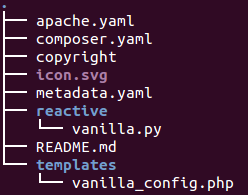
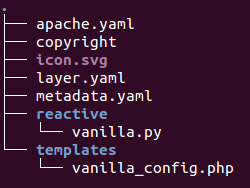
Fixed some typos and replaced the tree image

Changed region(s): [[0.1411, 0.0532, 0.9597, 0.984], [0.0, 0.0266, 0.1129, 0.8511]]

diff --git a/src/en/howto-charm-with-docker.md b/src/en/howto-charm-with-docker.md
@@ -32,7 +32,7 @@ do nothing at all.
 
 The idea of charm layers is to combine objects or data into more complex objects
 or data. When applied to Charms, layers allow you to extend or build off
-other charms to make more complex or useful charms. The `layers.yaml` file in
+other charms to make more complex or useful charms. The `layer.yaml` file in
 the root directory of the charm controls what layer(s) will be imported.
 
 #### Reactive Charms
@@ -60,7 +60,7 @@ such as `docker.available`, and forthcoming support for the plugins that Docker
 is growing. This charm is designed to be a base for other docker based charms.
 
 This can be achieved by creating a new charm directory, and placing the following
-directives in your `layers.yaml`
+directives in your `layer.yaml`
 
     includes: ['layer:docker']
 

diff --git a/src/en/authors-charm-building.md b/src/en/authors-charm-building.md
@@ -58,7 +58,7 @@ us Apache2 running on a configurable port, mod-php5, and support for the
 
 On top of that, we'll want to use the [mysql interface][].
 
-We will put these in a `layers.yaml` file, which tells the builder what layers
+We will put these in a `layer.yaml` file, which tells the builder what layers
 and interfaces to combine with yours to create the finished charm:
 
 ```yaml
@@ -220,7 +220,7 @@ not conflict.  All handlers from each of those files will be discovered and
 dispatched according to the [discovery and dispatch rules][].
 
 
-## Buidling your charm
+## Building your charm
 
 Now that the layer is done, let's build it together and deploy the final
 charm.  From within the layer directory, this is as simple as:

diff --git a/src/en/developer-event-cycle.md b/src/en/developer-event-cycle.md
@@ -153,9 +153,9 @@ code in the [relationship hook sequence](#relation-events-by-example).
 
 # Relation states by example
 
-In the vanilla `layers.yaml` file, we include “interface:mysql". This relates
+In the vanilla `layer.yaml` file, we include “interface:mysql". This relates
 directly to the “database” relation defined in `metadata.yaml`; with this
-inclusion in `layers.yaml`, your charm will pick up the mysql interface layer
+inclusion in `layer.yaml`, your charm will pick up the mysql interface layer
 from [the layers webservice](http://interfaces.juju.solutions/). The vanilla
 code can then react to the “database.connected” state and/or the
 “database.available” state.
